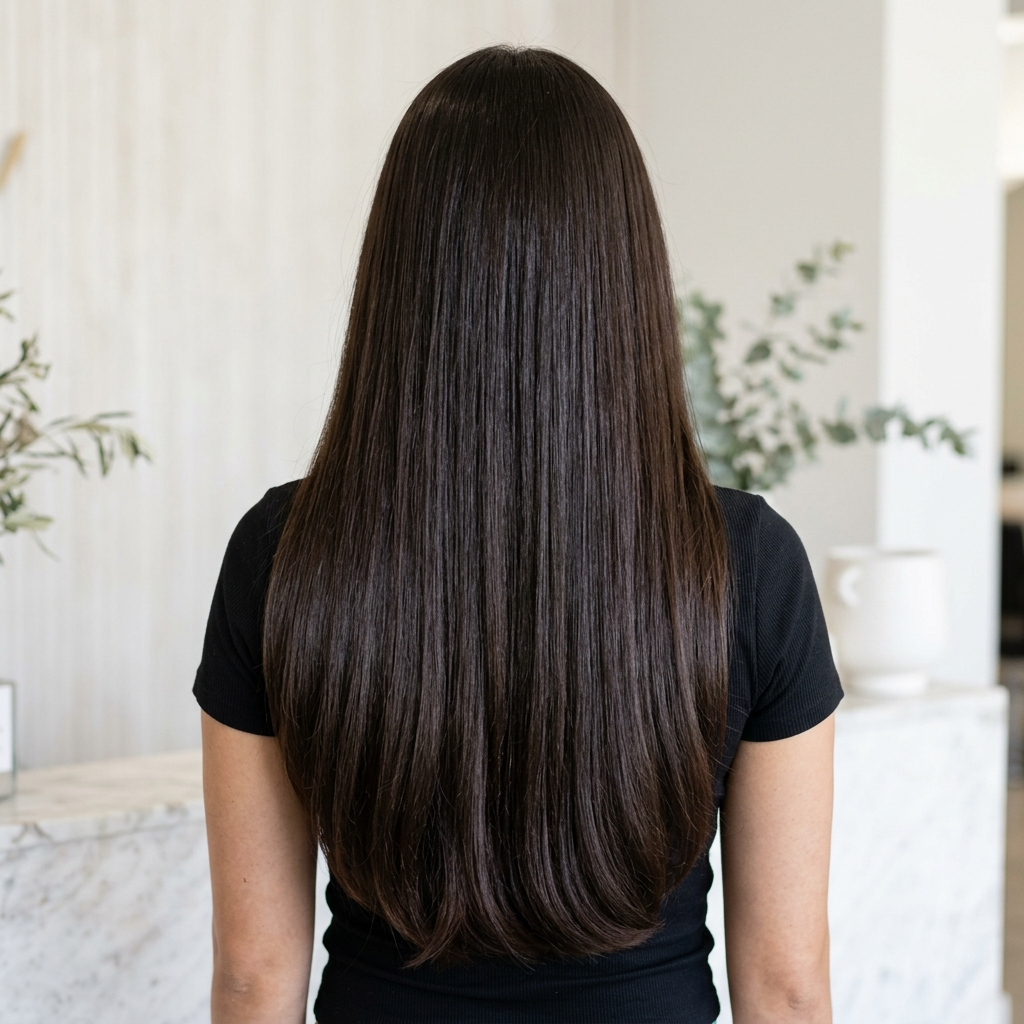
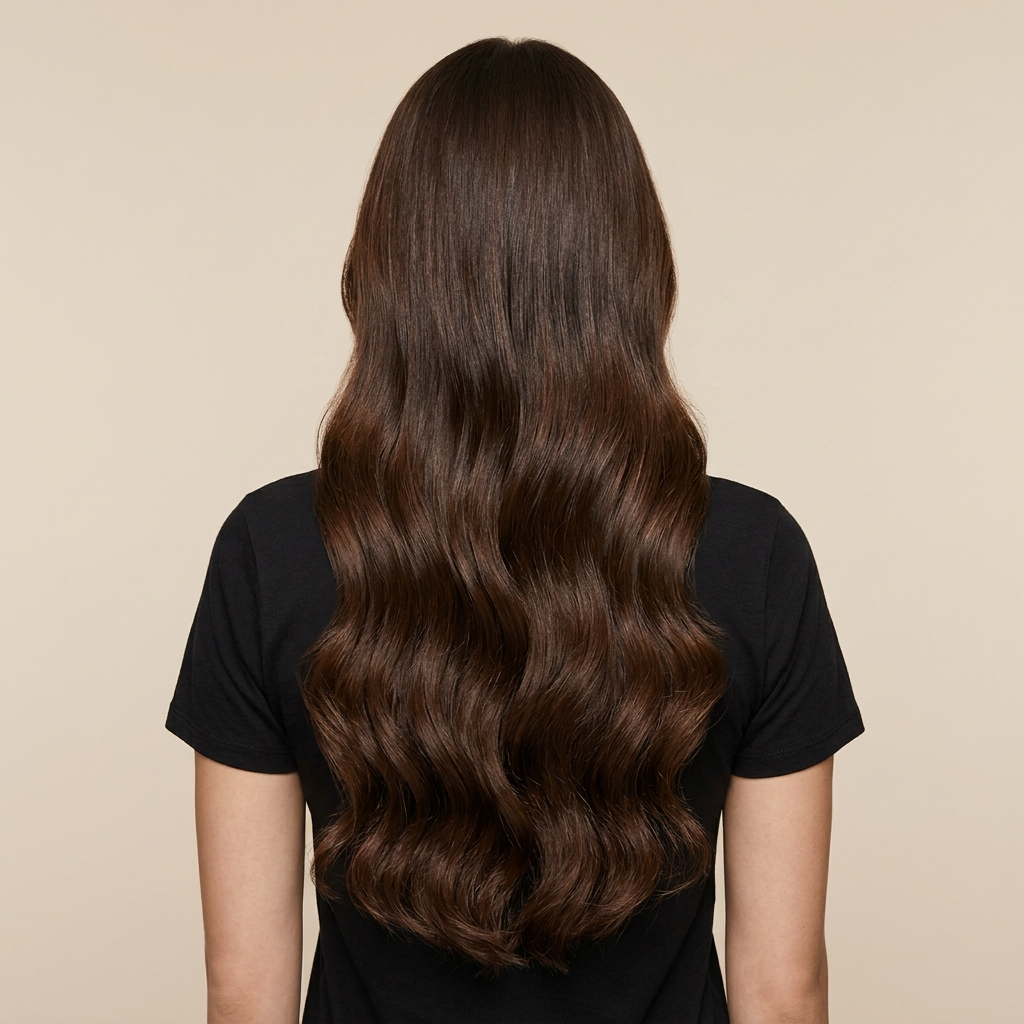
Improve hair growth images to match model/clothing/background, and add new hair density before/after images

diff --git a/src/data/products.ts b/src/data/products.ts
@@ -165,8 +165,8 @@ export const products: Product[] = [
     lifestyleImage: "/products/follicra_regrowth_hero_real.png",
     additionalImage: "/products/follicra_regrowth_benefits_v4.png",
     ingredientsImage: "/products/follicra_regrowth_ingredients.png",
-    beforeImage: "/products/before_hair_thinning.png",
-    afterImage: "/products/after_hair_regrowth.png",
+    beforeImage: "/products/before_hair_density.png",
+    afterImage: "/products/after_hair_density.png",
     texture: "/products/follicra_regrowth_texture.png",
     accent: "#DDF1E9",
     bg: "#F2FAF7",

diff --git a/src/components/ComboDetailPage.tsx b/src/components/ComboDetailPage.tsx
@@ -218,7 +218,7 @@ export default function ComboDetailPage() {
       return { before: '/products/before_damaged_hair.png', after: '/products/after_repaired_hair.png' };
     }
     if (comboId === 'transformation') {
-      return { before: '/products/before_hair_thinning.png', after: '/products/after_hair_regrowth.png' };
+      return { before: '/products/before_hair_density.png', after: '/products/after_hair_density.png' };
     }
     return { before: '/products/before_hair.png', after: '/products/after_hair.png' };
   };
